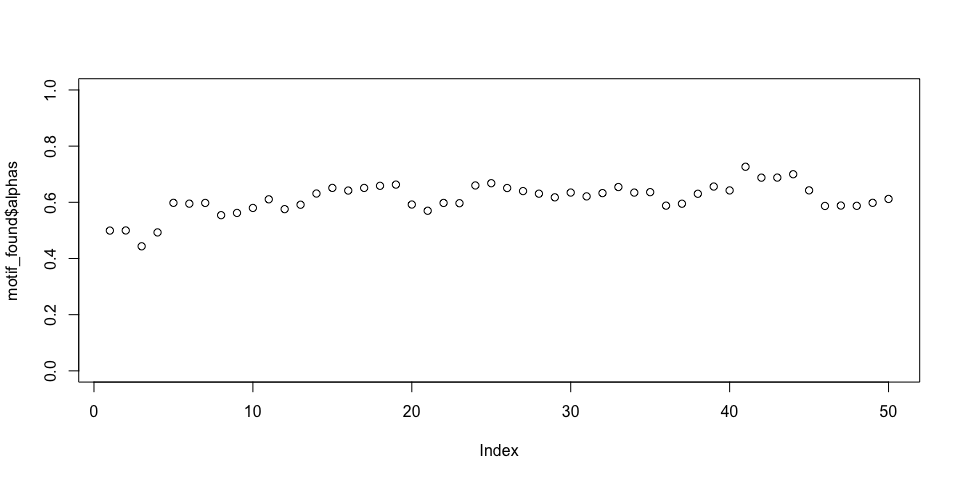
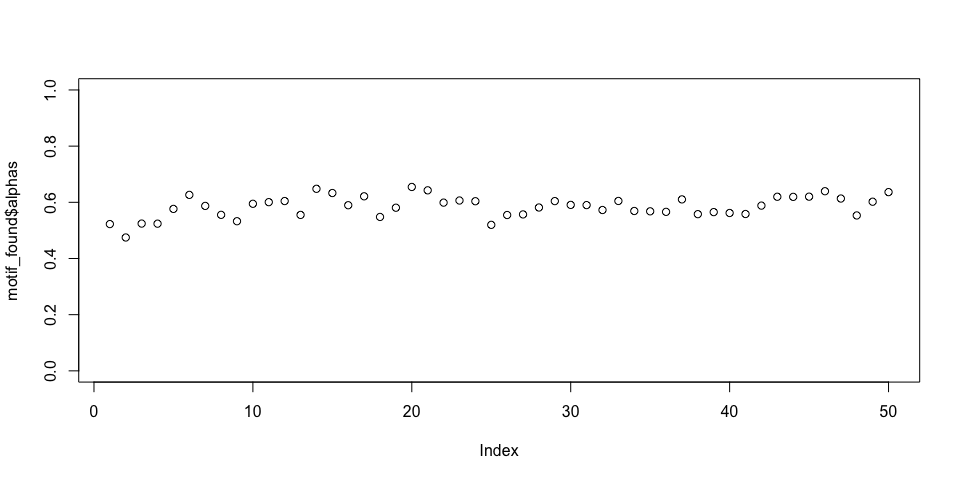
update vignette

diff --git a/vignettes/vignette.md b/vignettes/vignette.md
@@ -1,7 +1,7 @@
 MotifFinder: Vignette (Tutorial)
 ================
 Daniel Wells
-2019-02-18
+2019-02-21
 
 ## Simulate Data
 
@@ -12,11 +12,15 @@ around the center of 50% of the sequences.
 library(MotifFinder)
 set.seed(42)
 simulated_sequences <- simulate_sequences(motif="ATgTT_GtCC")
+```
 
+    ## [1] "motif start position is 96"
+
+``` r
 str(simulated_sequences)
 ```
 
-    ##  Named chr [1:300] "CCTCGGGAGGTGCTTCCATGCACCAGTCTCGCTGACAACGTTACTCCGCGTTTCAGGATGGCCGCATCGAAAATAGATGAGATGCGAAATGAAATTTTTGTAATCCGGGAG"| __truncated__ ...
+    ##  Named chr [1:300] "CCTCTTTTGTATGGCCAAGGGGCGTAAAACTTAATCTCCGCTTTGCAGACTAGTGCGATTCGTGCGGCCGCTGGACCCAAGCATCCAGGCTCCCGGATTCCCTTACAAAAA"| __truncated__ ...
     ##  - attr(*, "names")= chr [1:300] "1" "2" "3" "4" ...
 
 # Run MotifFinder
@@ -77,16 +81,16 @@ Other helper functions include downloading PWMs from the Jaspar or
 Hocomoco databases.
 
 ``` r
-Ascl2 <- download_PWM("MA0816.1")
-str(Ascl2)
+Alx1 <- download_PWM("ALX1_MOUSE.H11MO.0.B")
+str(Alx1)
 ```
 
     ## List of 2
-    ##  $ pwm : num [1:10, 1:4] 0.6469 0.3663 0.0267 0.9046 0.0346 ...
+    ##  $ pwm : num [1:12, 1:4] 0.3795 0.1211 0.6119 0.6785 0.0768 ...
     ##   ..- attr(*, "dimnames")=List of 2
     ##   .. ..$ : NULL
     ##   .. ..$ : chr [1:4] "A" "C" "G" "T"
-    ##  $ name: chr "Ascl2"
+    ##  $ name: chr "ALX1_MOUSE.H11MO.0.B"
 
 ## Extracting DNA from the genome
 
